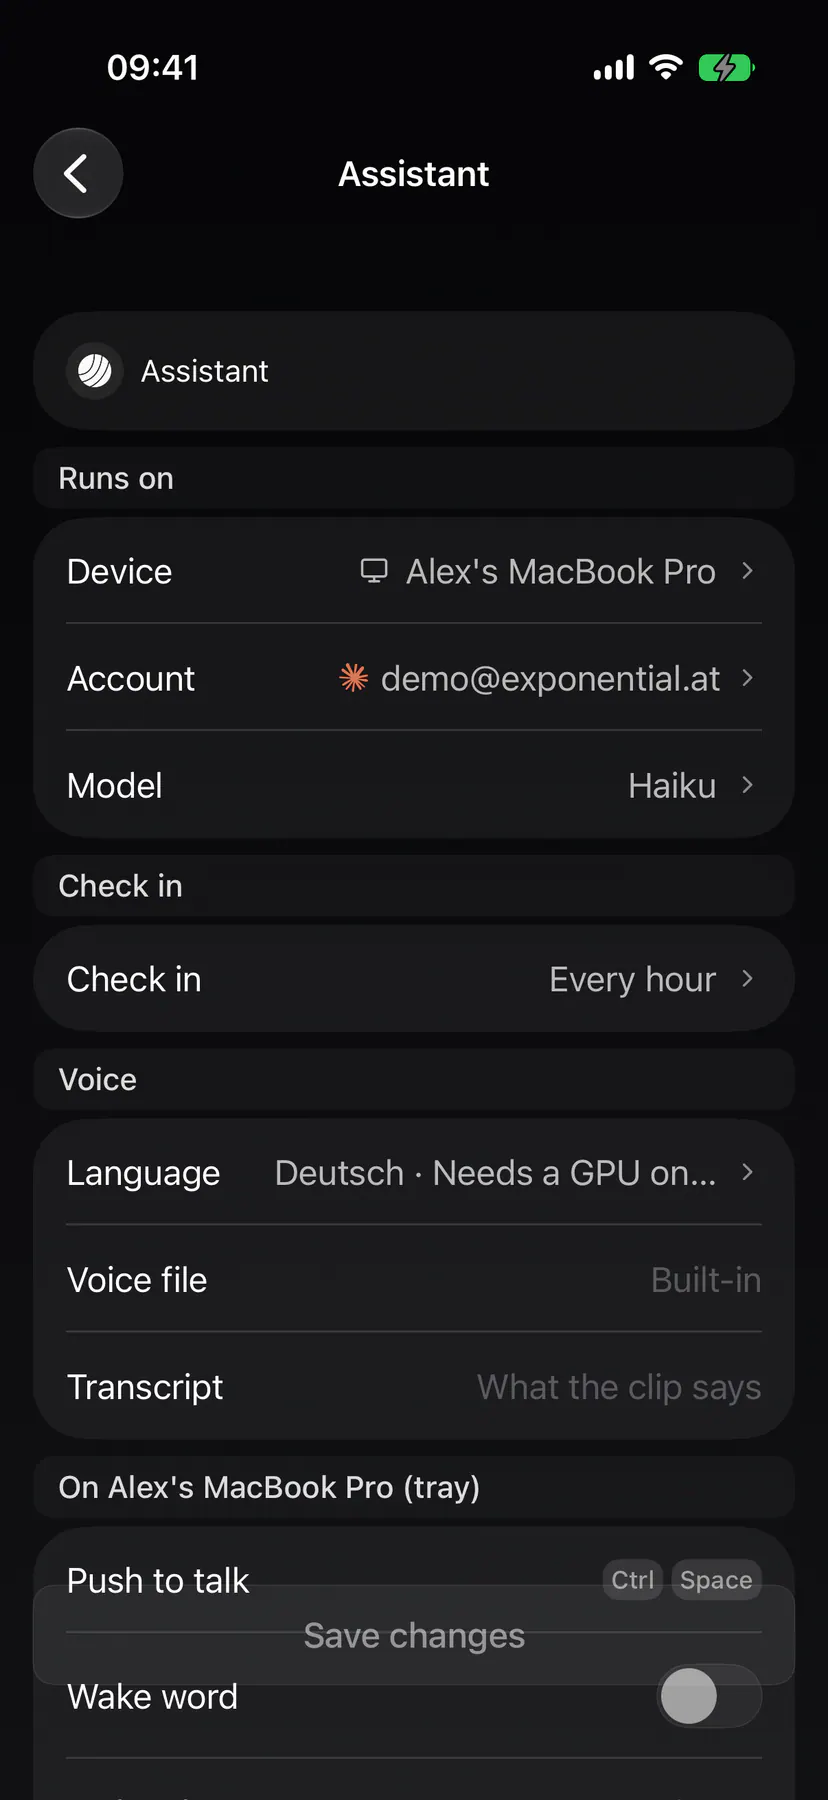
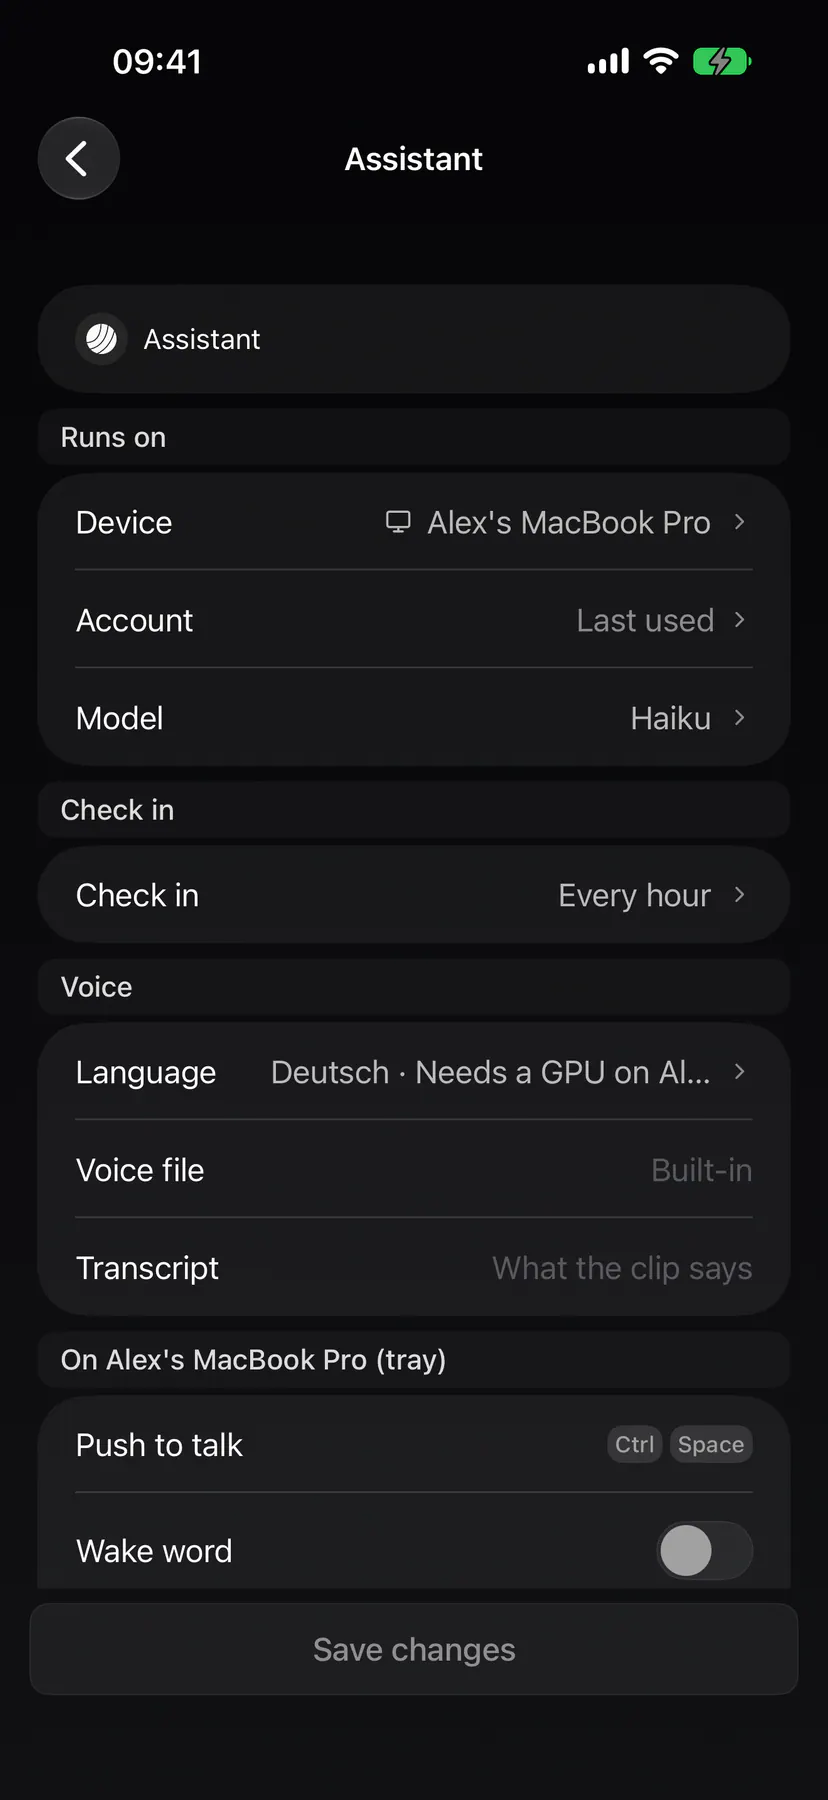
S-5: iOS Assistant page insets its Save bar like the other settings pages

diff --git a/apps/ios/Exponential/UI/Settings/AssistantSettingsPage.swift b/apps/ios/Exponential/UI/Settings/AssistantSettingsPage.swift
@@ -107,25 +107,28 @@ private struct AssistantSettingsContent: View {
                 EmptyState(title: AgentSettings.AssistantCopy.noDevice, icon: AppIcons.navDevices, size: .page)
                     .accessibilityIdentifier("assistant-no-device")
             } else {
-                AssistantSettingsForm(
-                    draft: draft,
-                    voice: voice,
-                    devices: devices,
-                    baseURL: deps.auth.instanceBaseURL(forAccountId: accountId),
-                    accountId: accountId,
-                    httpClient: deps.httpClient,
-                    onRetryInstructions: { Task { await loadInstructions(retried: true) } },
-                    onCheckIn: { setCheckIn($0) }
-                )
-            }
-        }
-        .safeAreaInset(edge: .bottom, spacing: 0) {
-            if agentId != nil {
-                GlassSubmitButton("Save changes", enabled: canSubmit, loading: draft.saving) {
-                    Task { await save() }
+                // S-5: the bar sits BELOW the Form, not in its safe-area
+                // inset: this Form is taller than the screen, and an inset
+                // let its rows scroll on under the glass bar and the home
+                // indicator. Laid out above it, the last row scrolls up to
+                // the bar and stops there.
+                VStack(spacing: 0) {
+                    AssistantSettingsForm(
+                        draft: draft,
+                        voice: voice,
+                        devices: devices,
+                        baseURL: deps.auth.instanceBaseURL(forAccountId: accountId),
+                        accountId: accountId,
+                        httpClient: deps.httpClient,
+                        onRetryInstructions: { Task { await loadInstructions(retried: true) } },
+                        onCheckIn: { setCheckIn($0) }
+                    )
+                    GlassSubmitButton("Save changes", enabled: canSubmit, loading: draft.saving) {
+                        Task { await save() }
+                    }
+                    .padding(.horizontal, 16)
+                    .padding(.vertical, 8)
                 }
-                .padding(.horizontal, 16)
-                .padding(.vertical, 8)
             }
         }
         .navigationTitle(AgentSettings.AssistantCopy.title)
